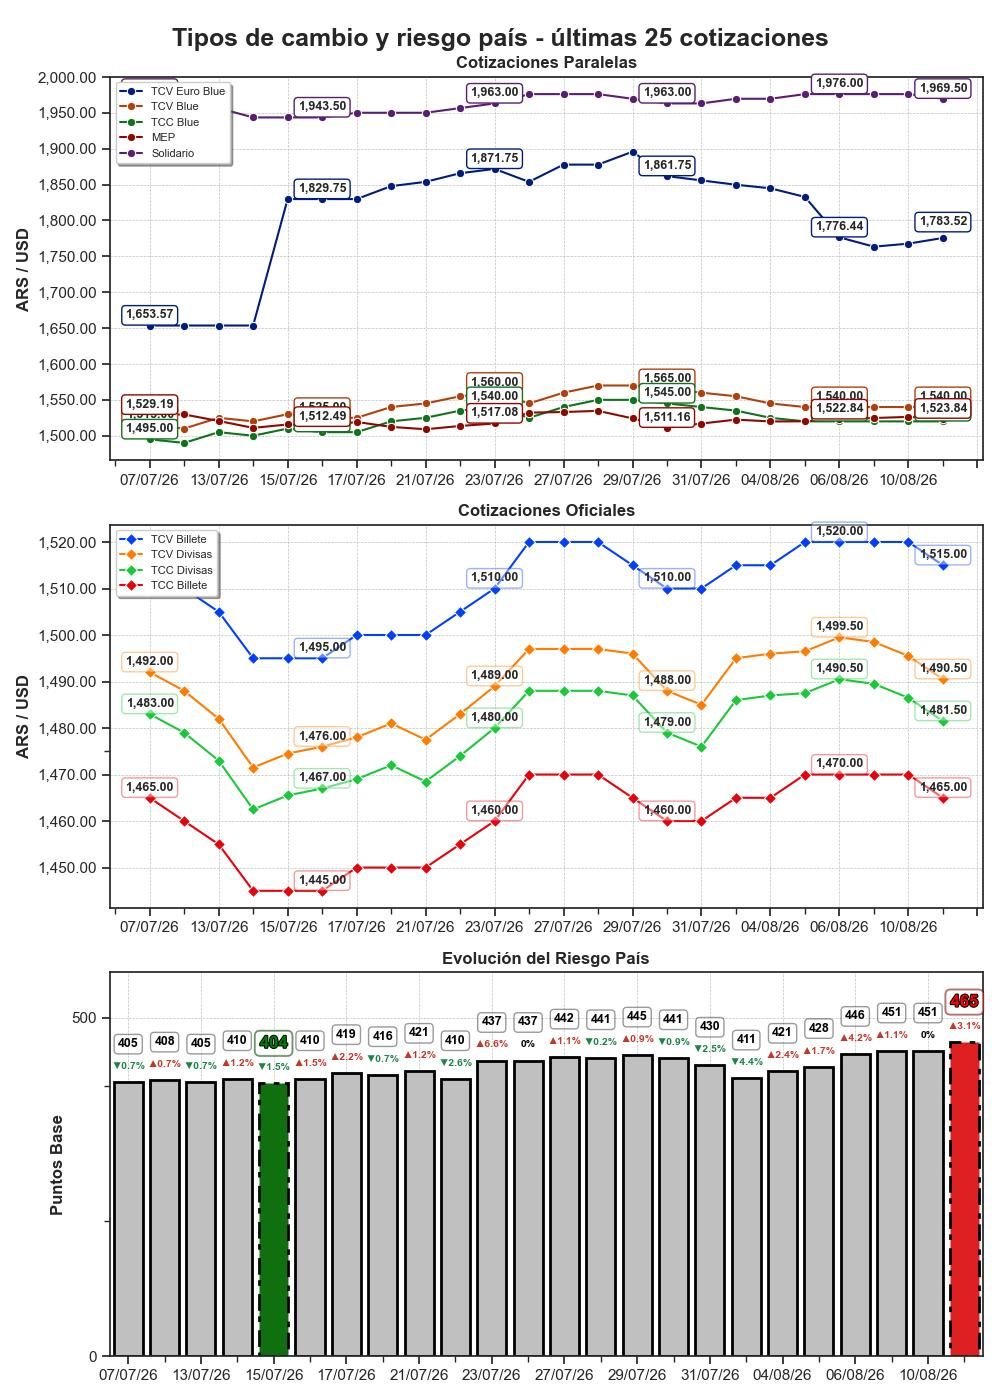
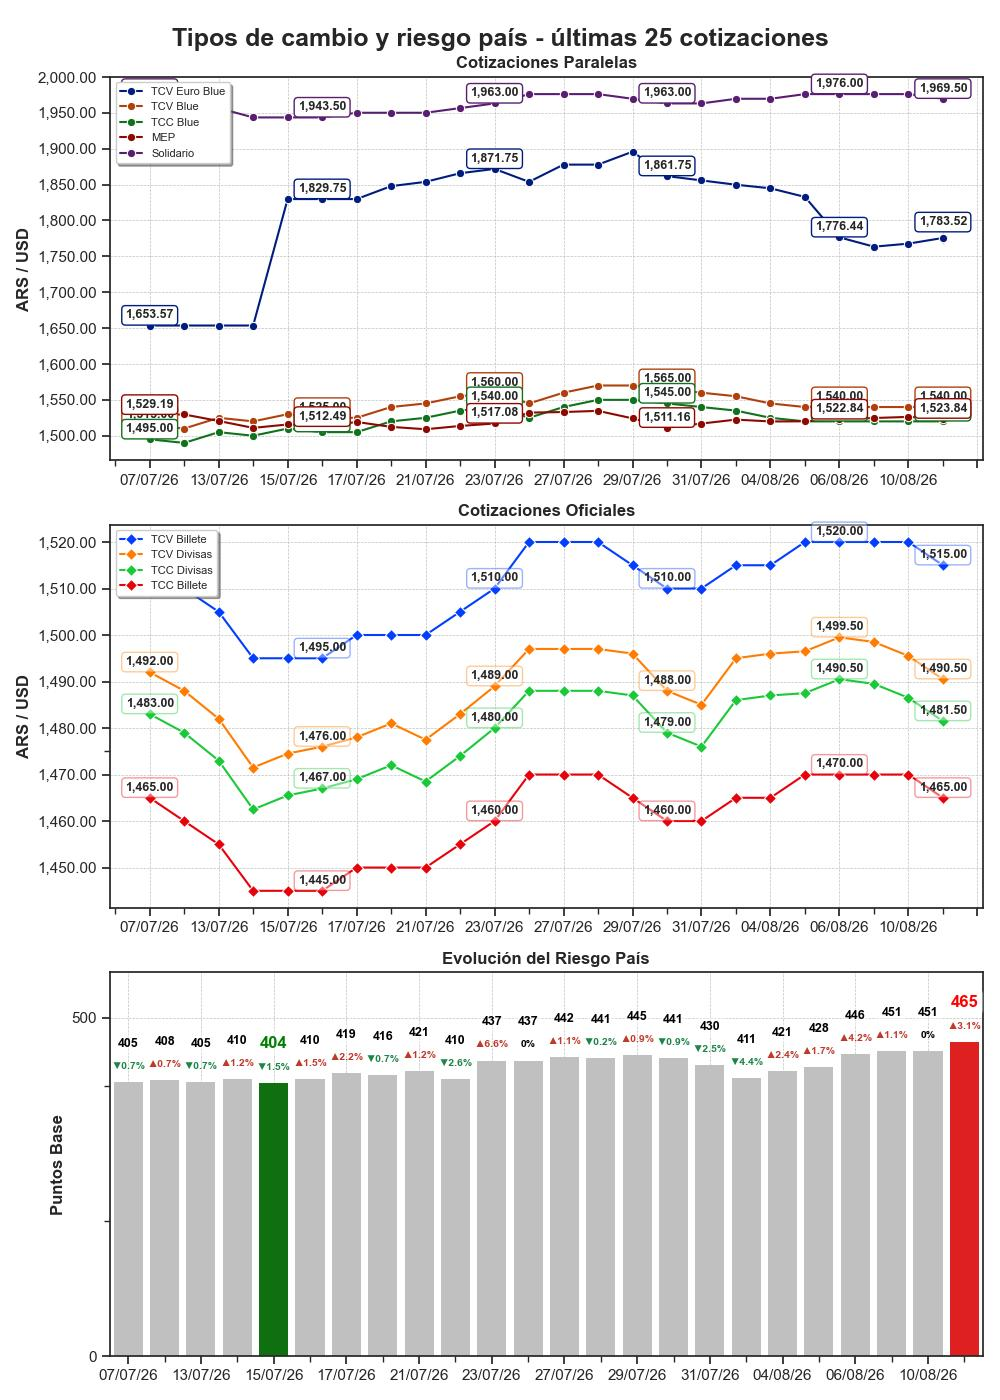
Saca los bordes del grafico de riesgo pais y unifica el tamano de las tablas
Grafico de riesgo pais:
- Las barras van sin borde. El maximo y el minimo ya se distinguen por color,
  el contorno negro de 2px solo competia con las etiquetas.
- Las etiquetas de datos pierden el borde del recuadro y el contorno oscuro
  (path_effects). Queda el fondo blanco translucido, que es lo que hace falta
  para que el numero se lea sobre la grilla.

Plantilla del mail:
- Se elimina el renglon en blanco entre el alias de MercadoPago y la linea de
  autoria: lo abrian la linea divisoria mas el margen de 8px. Ahora las dos
  lineas van seguidas.
- Variaciones pasa de 8px a 12px, igual que Inflacion. Cotizaciones tiene 14
  columnas y a 12px se pasaria del ancho, asi que va a 10px, que es lo maximo
  que entra. Medido con Playwright sobre el HTML renderizado: las tres tablas
  entran en los 830px disponibles sin desbordar.
- El verde de las variaciones positivas pasa de #27ae60 a #1e8449. El anterior
  daba 2.87:1 sobre blanco, por debajo del 4.5:1 que pide WCAG AA. Es el mismo
  verde que ya usa el grafico de riesgo pais.

Changed region(s): [[0.093, 0.7064, 0.589, 0.9829], [0.62, 0.7064, 0.992, 0.9829]]

diff --git a/templates/report_email.html b/templates/report_email.html
@@ -28,10 +28,13 @@
         th { background-color: #2c3e50; color: #ffffff; text-transform: uppercase; }
         tr:nth-child(even) { background-color: #f8f9fa; }
 
-        /* La tabla de inflación tiene 4 columnas, no 14: entra cómoda con letra
-           más grande. Las otras dos se quedan en 8px o no entran en mobile. */
-        .tabla-inflacion table { min-width: 0; }
-        .tabla-inflacion table td, .tabla-inflacion table th { font-size: 12px !important; padding: 7px 6px; }
+        /* Inflación (4 columnas) y Variaciones (7) entran cómodas a 12px.
+           Cotizaciones tiene 14 columnas: a 12px se pasa del ancho del mail, así
+           que va a 10px, el máximo que entra sin desbordar. */
+        .tabla-inflacion table, .tabla-variaciones table { min-width: 0; }
+        .tabla-inflacion table td, .tabla-inflacion table th,
+        .tabla-variaciones table td, .tabla-variaciones table th { font-size: 12px !important; padding: 7px 6px; }
+        .tabla-cotizaciones table td, .tabla-cotizaciones table th { font-size: 10px !important; padding: 5px 3px; }
 
         /* Sombra en los gráficos. Gmail y Outlook descartan box-shadow, así que
            el borde es lo que garantiza el recorte; la sombra es un extra que se
@@ -142,12 +145,12 @@
             <p style="color:#2c3e50;">📊 <b><u>Monitoreo de Mercado:</u></b><br>
             Las siguientes tablas muestran las últimas {{ cotizaciones_a_mostrar }} cotizaciones de dólares, euro, riesgo país y las tasas de referencia (BCRA 🇦🇷 y FED 🇺🇸).<br>
             Analizalas tranquilo mientras te cebás unos mates 🧉:</p>
-            <div class="table-wrapper" style="width:100%; overflow-x:auto;">{{ tabla_cotizaciones | safe }}</div>
+            <div class="table-wrapper tabla-cotizaciones" style="width:100%; overflow-x:auto;">{{ tabla_cotizaciones | safe }}</div>
 
             <!-- TABLA VARIACIONES -->
             <p style="color:#2c3e50; margin-top:20px;">🔄 <b><u>Brechas y Variaciones:</u></b><br>
             Acá podés ver cómo se están moviendo los arbitrajes entre los distintos tipos de cambio y qué tanto terreno ganó o perdió cada uno en las últimas jornadas.</p>
-            <div class="table-wrapper" style="width:100%; overflow-x:auto;">{{ tabla_variaciones | safe }}</div>
+            <div class="table-wrapper tabla-variaciones" style="width:100%; overflow-x:auto;">{{ tabla_variaciones | safe }}</div>
 
             <!-- TABLA INFLACIÓN -->
             <p style="color:#2c3e50; margin-top:20px;">📈 <b><u>Termómetro de Inflación:</u></b><br>
@@ -184,13 +187,15 @@
                   <a href="https://linkedin.com/in/mauroemartinez/" style="text-decoration:none; color:#0077b5;"><b>LinkedIn</b></a>
                   | <a href="https://github.com/mauroemartinez/" style="text-decoration:none; color:#24292e;"><b>GitHub</b></a>
                 </p>
-                <p style="margin:0 0 8px 0; font-size:12px !important; color:#4d5a68;">
+                <p style="margin:0 0 3px 0; font-size:12px !important; color:#4d5a68;">
                   ☕ Si este reporte te ahorró tiempo y/o dinero, podés apoyar el proyecto al alias: <b style="color:#2c3e50;">mauroemartinezmp</b>
                 </p>
 
-                <!-- Mismo tamaño, mismo estilo y sin cursivas en las tres líneas.
+                <!-- Sin separador ni padding entre esta línea y la anterior: la
+                     línea divisoria mas el margen abrian un renglon en blanco.
+                     Mismo tamaño, mismo estilo y sin cursivas en las tres líneas.
                      Solo el nombre y el mail van en negrita. -->
-                <div style="border-top:1px solid #dfe4ea; padding-top:10px; font-size:11px !important; color:#4d5a68; line-height:1.6;">
+                <div style="font-size:11px !important; color:#4d5a68; line-height:1.6;">
                   🤖 Este es un proceso de RPA desarrollado íntegramente en Python por <b style="color:#2c3e50;">Mauro E. Martinez</b>.<br>
                   ⏱ Performance: el script procesó los datos y generó este envío en {{ '{:.2f}'.format(performance_segundos) }} segundos.<br>
                   📧 Consultas, desuscripciones o propuestas: <a href="mailto:martinezmauroezequiel@gmail.com" style="color:#2c3e50; text-decoration:underline; font-weight:bold;">martinezmauroezequiel@gmail.com</a>
